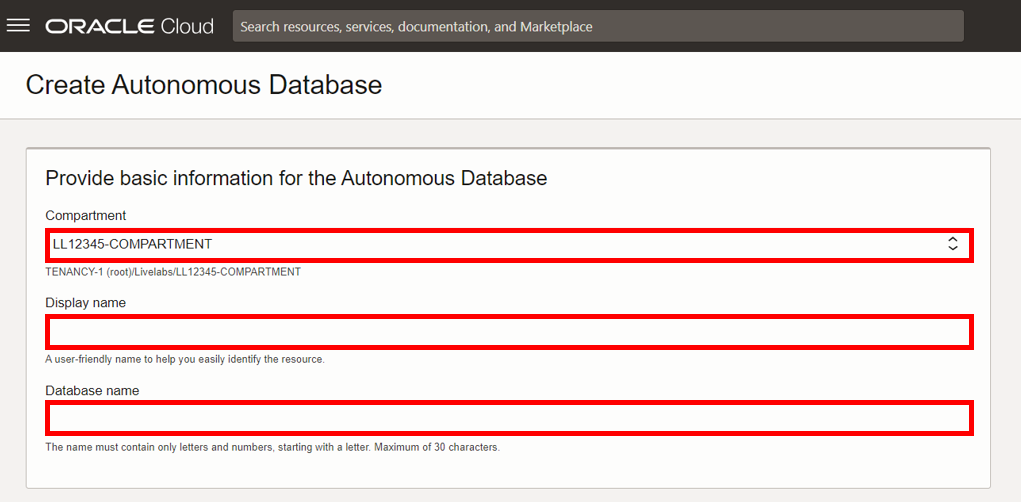
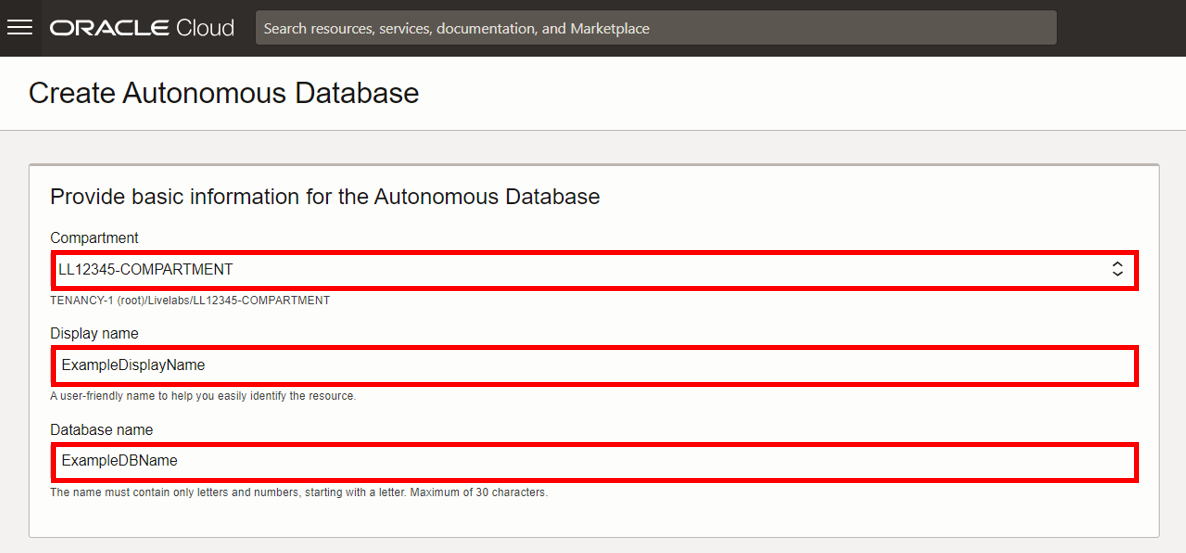
workshop #8881: update instructions and screenshots (#222)
* workshop #8881: update instructions and screenshots

update instructions and screenshots based on UI changes

* workshop #8881: update instructions and screenshots

update instructions and screenshots based on UI changes

diff --git a/building-blocks/tasks/adb/provision-body.md b/building-blocks/tasks/adb/provision-body.md
@@ -16,6 +16,8 @@
     - **Database Name** - Use letters and numbers only, starting with a letter. Maximum length is 14 characters. (Underscores not supported.) For this lab, use **[](var:db_name)**.
 
     ![Enter the required details.](./images/adb-create-screen-names.png " ")
+
+> **Note:** Ensure you use suggested database names as instructed, and not those shown in screenshots.
 </if>
 <if type="livelabs">
     - **Choose a compartment** - Use the default compartment created for you.
@@ -23,6 +25,8 @@
     - **Database Name** - Use letters and numbers only, starting with a letter. Maximum length is 14 characters. (Underscores not supported.) For this lab, use **[](var:db_name_livelabs)**, for example, **[](var:db_name_livelabs_example)**.
 
     ![Enter the required details.](./images/adb-create-screen-names.png " ")
+
+> **Note:** Ensure you use suggested database names as instructed, and not those shown in screenshots.
 </if>
 
 3. Choose a workload type. Select the workload type for your database from the choices:
